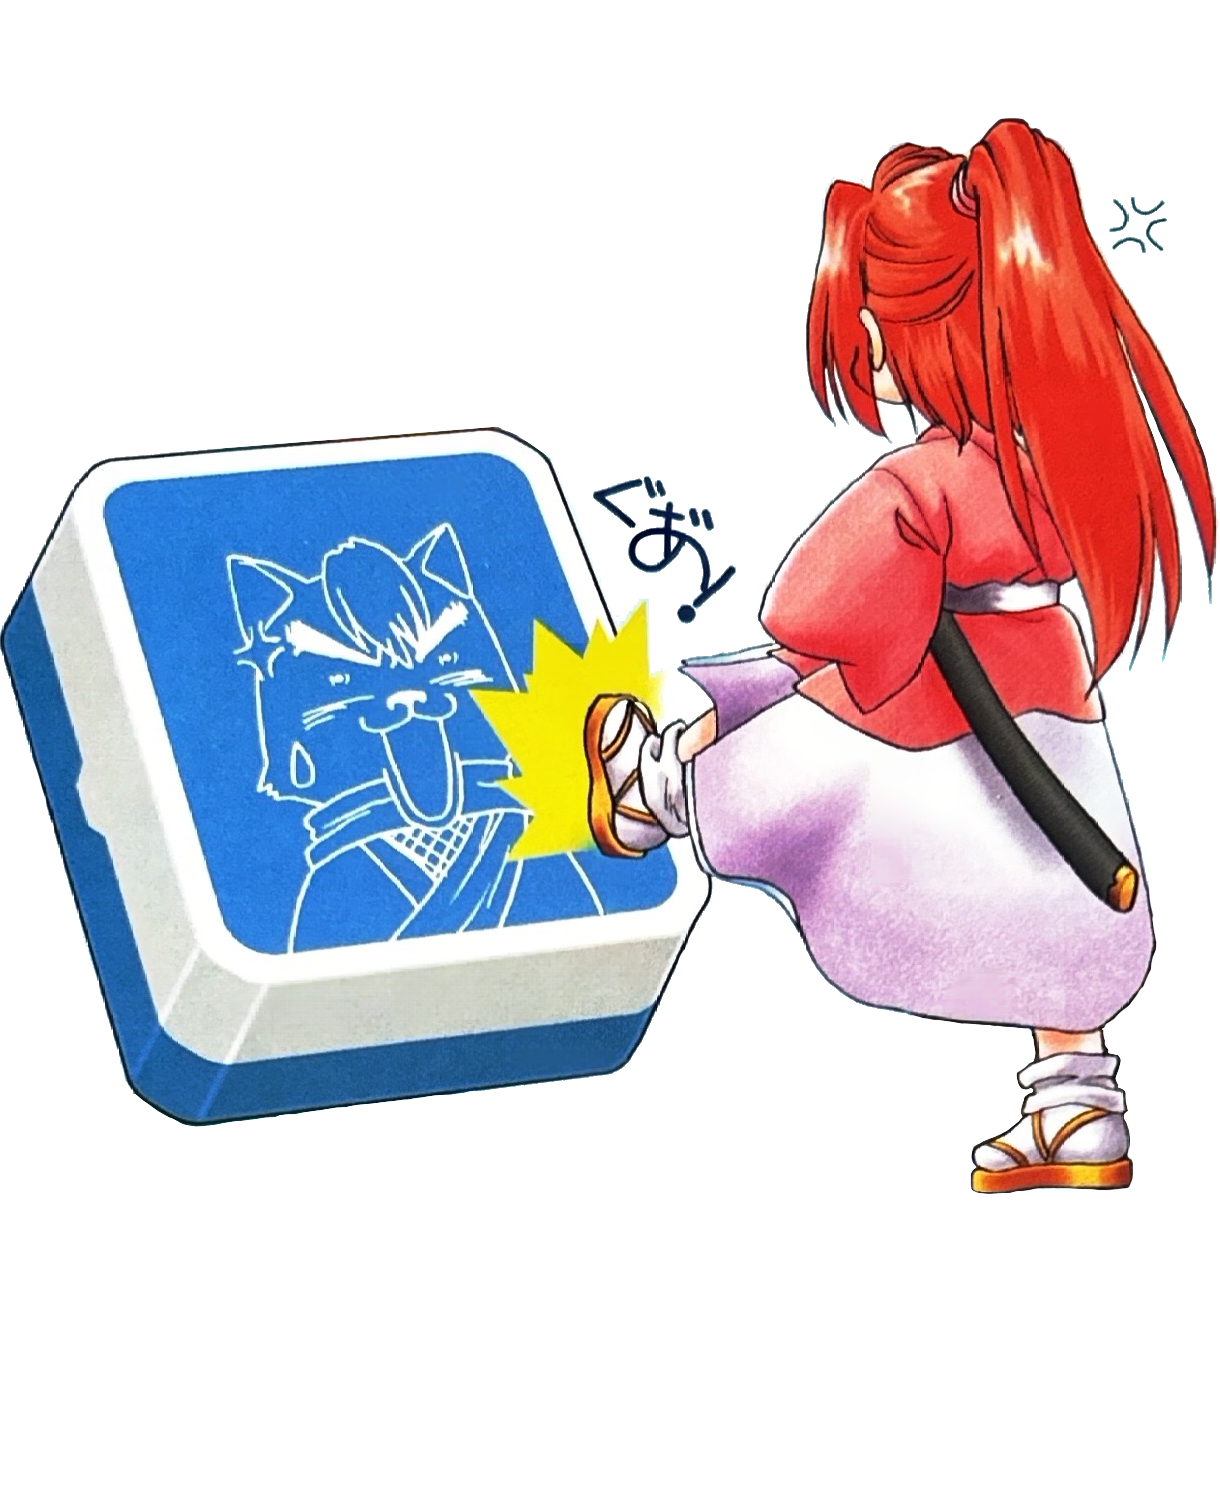
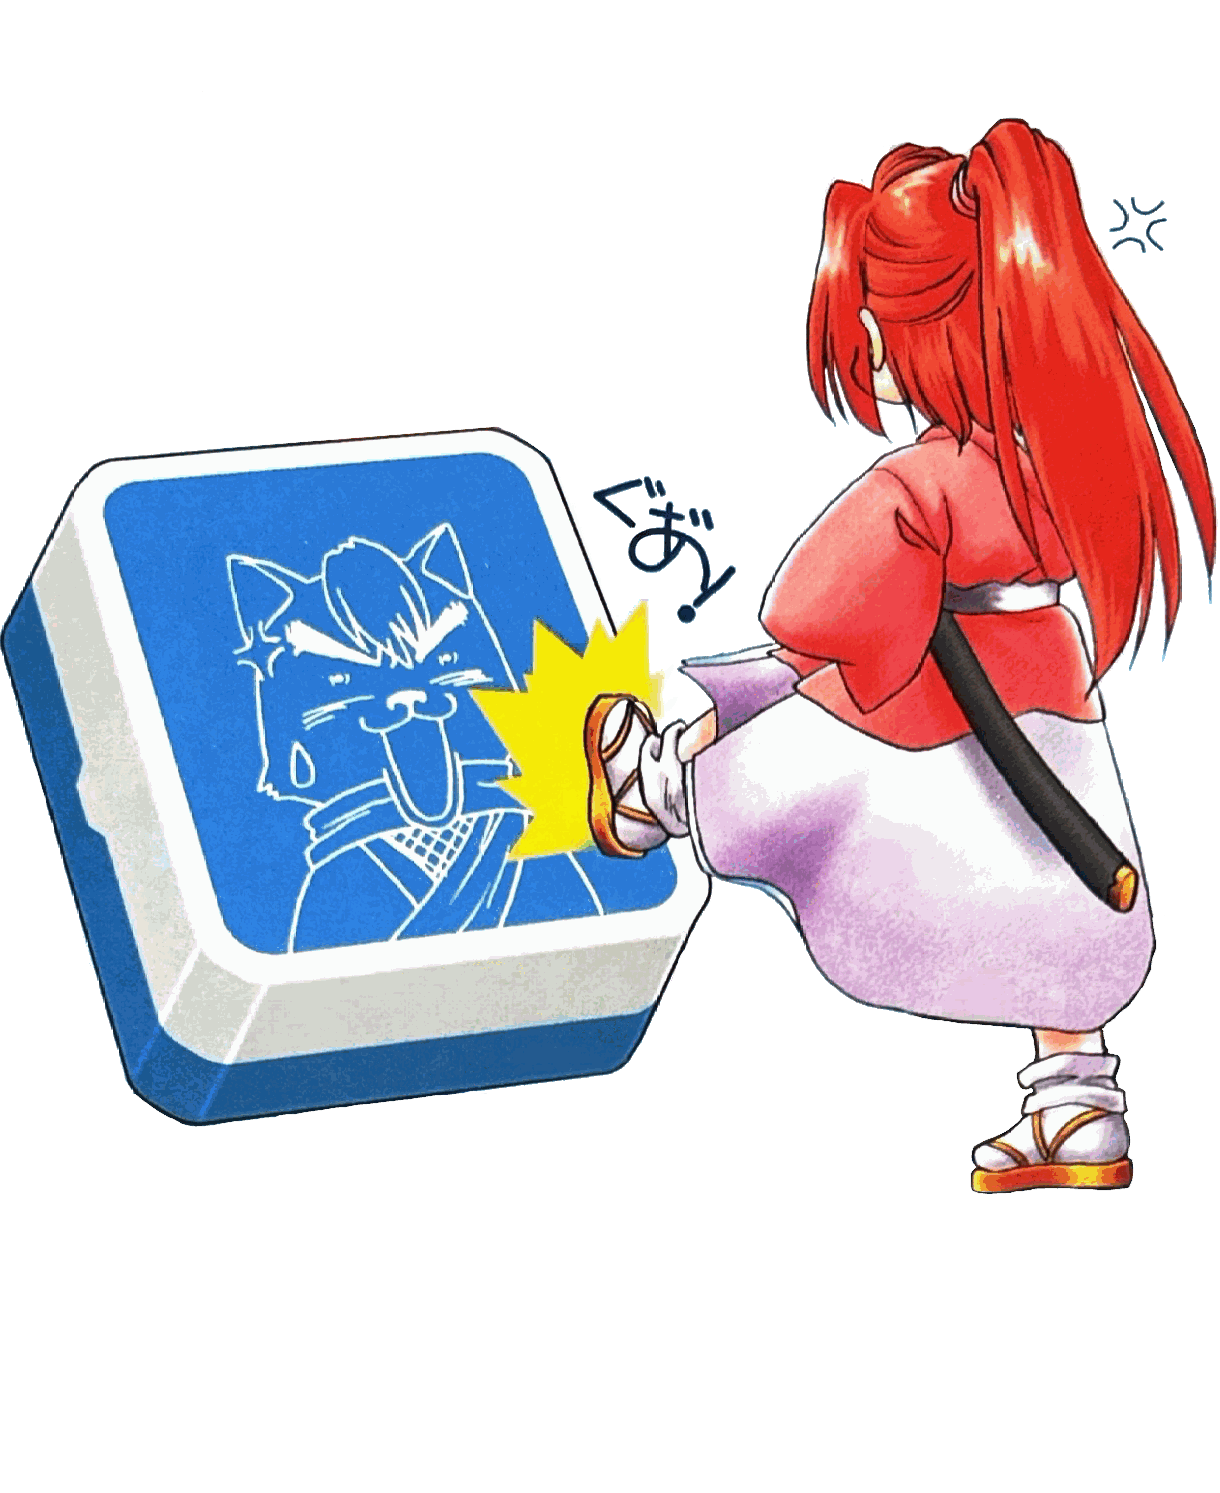
kitan_manual/haiyuki_manual — 이미지 용량 최적화 (21MB→3.6MB, 4.3MB→1.1MB)
- kitan 초상 6장+인사말: 실표시 크기(레티나 2배)로 다운스케일 후
  256색 팔레트 PNG로 재압축 (알파 필요해 PNG 유지)
- kitan 만화 3장·커버·챕터배너 5장: 알파 채널을 픽셀 단위로 검사해
  투명도가 스캔 가장자리 잡티 수준(0.007~0.5%)임을 확인 후 흰 배경에
  합성, JPEG(q85~90)로 전환. index.html의 해당 <img src> 9곳도 .jpg로
  변경
- haiyuki_manual 캐릭터 그룹샷 5장: CSS 계산상 이미 레티나 기준
  적정 해상도라 리사이즈 없이 256색 팔레트 압축만 적용
- 전부 Playwright 헤드리스로 <img> 로드 여부 재검증

diff --git a/kitan_manual/index.html b/kitan_manual/index.html
@@ -1000,7 +1000,7 @@
     <header class="manual-header">
         <div class="section-inner">
             <div class="cover-wrap">
-                <img class="header-cover" src="img/cover.png" alt="환세희담 표지 일러스트">
+                <img class="header-cover" src="img/cover.jpg" alt="환세희담 표지 일러스트">
             </div>
 
             <!-- 표지에 타이틀 로고가 그림으로 이미 들어있어서, h1은
@@ -1019,7 +1019,7 @@
             <div class="chapter-title">
                 <div class="section-inner">
                     <div class="pct-stage">
-                        <img class="stage-base" src="img/chapter-prologue.png" alt="프롤로그 챕터 타이틀">
+                        <img class="stage-base" src="img/chapter-prologue.jpg" alt="프롤로그 챕터 타이틀">
                     </div>
                     <h2>프롤로그</h2>
                 </div>
@@ -1070,13 +1070,13 @@
             <!-- .section-inner 바깥에 둬서 좌우 여백(20px 패딩) 없이 꽉 차게 표시 -->
             <div class="comic-pages">
                 <figure class="comic-page">
-                    <img src="img/comic-01.png" alt="프롤로그 만화 1페이지">
+                    <img src="img/comic-01.jpg" alt="프롤로그 만화 1페이지">
                 </figure>
                 <figure class="comic-page">
-                    <img src="img/comic-02.png" alt="프롤로그 만화 2페이지">
+                    <img src="img/comic-02.jpg" alt="프롤로그 만화 2페이지">
                 </figure>
                 <figure class="comic-page">
-                    <img src="img/comic-03.png" alt="프롤로그 만화 3페이지">
+                    <img src="img/comic-03.jpg" alt="프롤로그 만화 3페이지">
                 </figure>
             </div>
         </section>
@@ -1086,7 +1086,7 @@
             <div class="chapter-title">
                 <div class="section-inner">
                     <div class="pct-stage">
-                        <img class="stage-base" src="img/chapter-char.png" alt="메인 캐릭터 소개 챕터 타이틀">
+                        <img class="stage-base" src="img/chapter-char.jpg" alt="메인 캐릭터 소개 챕터 타이틀">
                     </div>
                     <h2>메인 캐릭터 소개</h2>
                 </div>
@@ -1221,7 +1221,7 @@
             <div class="chapter-title">
                 <div class="section-inner">
                     <div class="pct-stage">
-                        <img class="stage-base" src="img/chapter-gameplay.png" alt="게임의 진행 방법 챕터 타이틀">
+                        <img class="stage-base" src="img/chapter-gameplay.jpg" alt="게임의 진행 방법 챕터 타이틀">
                     </div>
                     <h2>게임의 진행 방법</h2>
                 </div>
@@ -1409,7 +1409,7 @@
             <div class="chapter-title">
                 <div class="section-inner">
                     <div class="pct-stage">
-                        <img class="stage-base" src="img/chapter-items.png" alt="무구·도구·특기·마법 챕터 타이틀">
+                        <img class="stage-base" src="img/chapter-items.jpg" alt="무구·도구·특기·마법 챕터 타이틀">
                     </div>
                     <h2>무구·도구·특기·마법</h2>
                 </div>
@@ -1770,7 +1770,7 @@
             <div class="chapter-title">
                 <div class="section-inner">
                     <div class="pct-stage">
-                        <img class="stage-base" src="img/chapter-extra.png" alt="오마케 챕터 타이틀">
+                        <img class="stage-base" src="img/chapter-extra.jpg" alt="오마케 챕터 타이틀">
                     </div>
                     <h2>오마케</h2>
                 </div>
